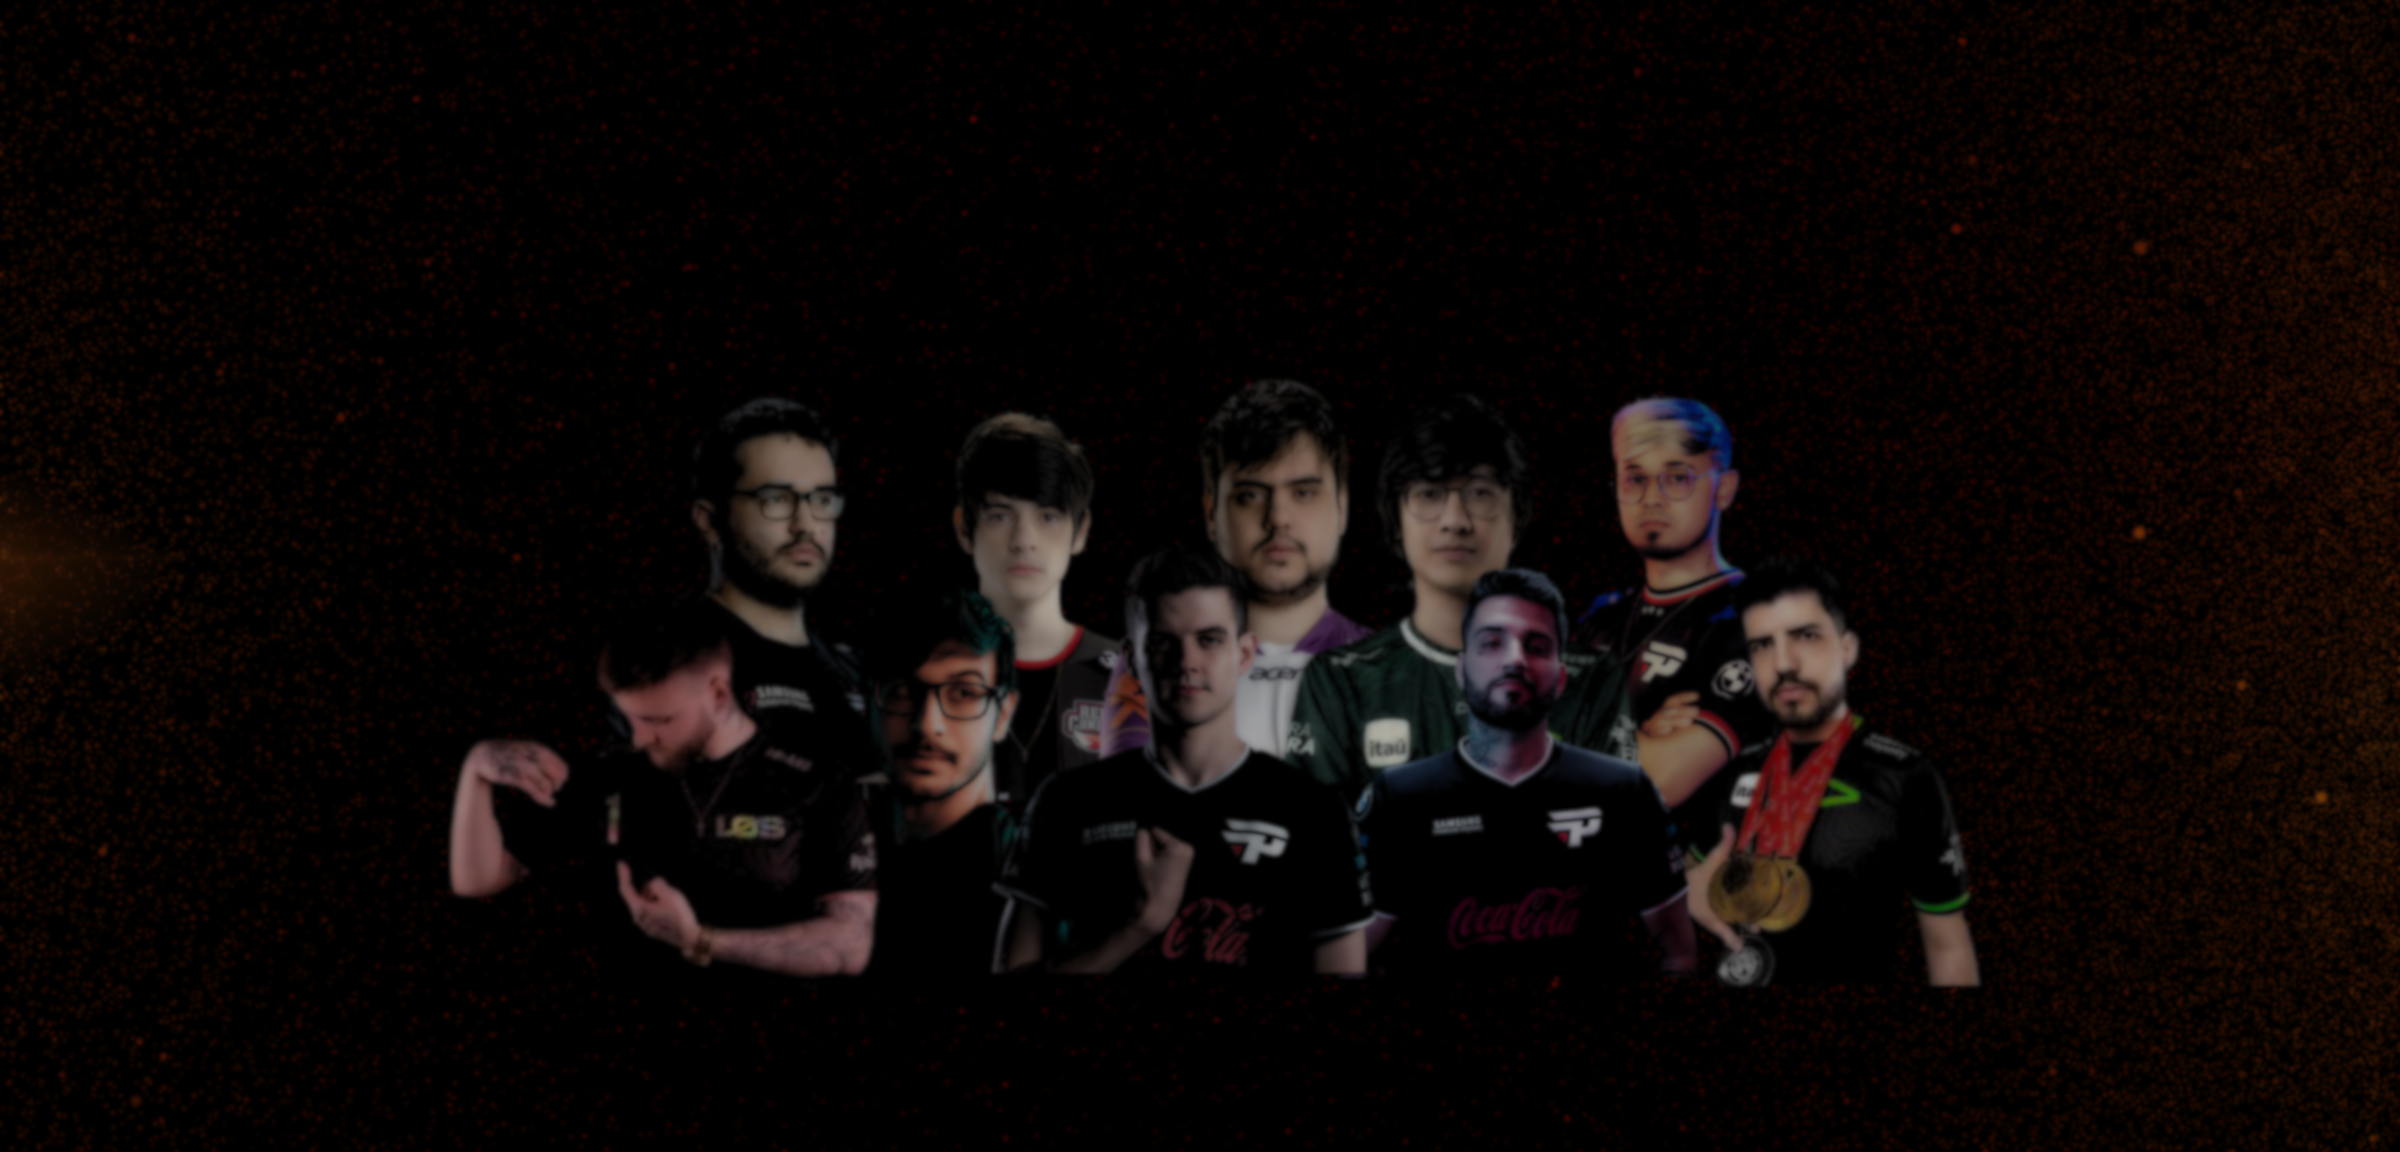
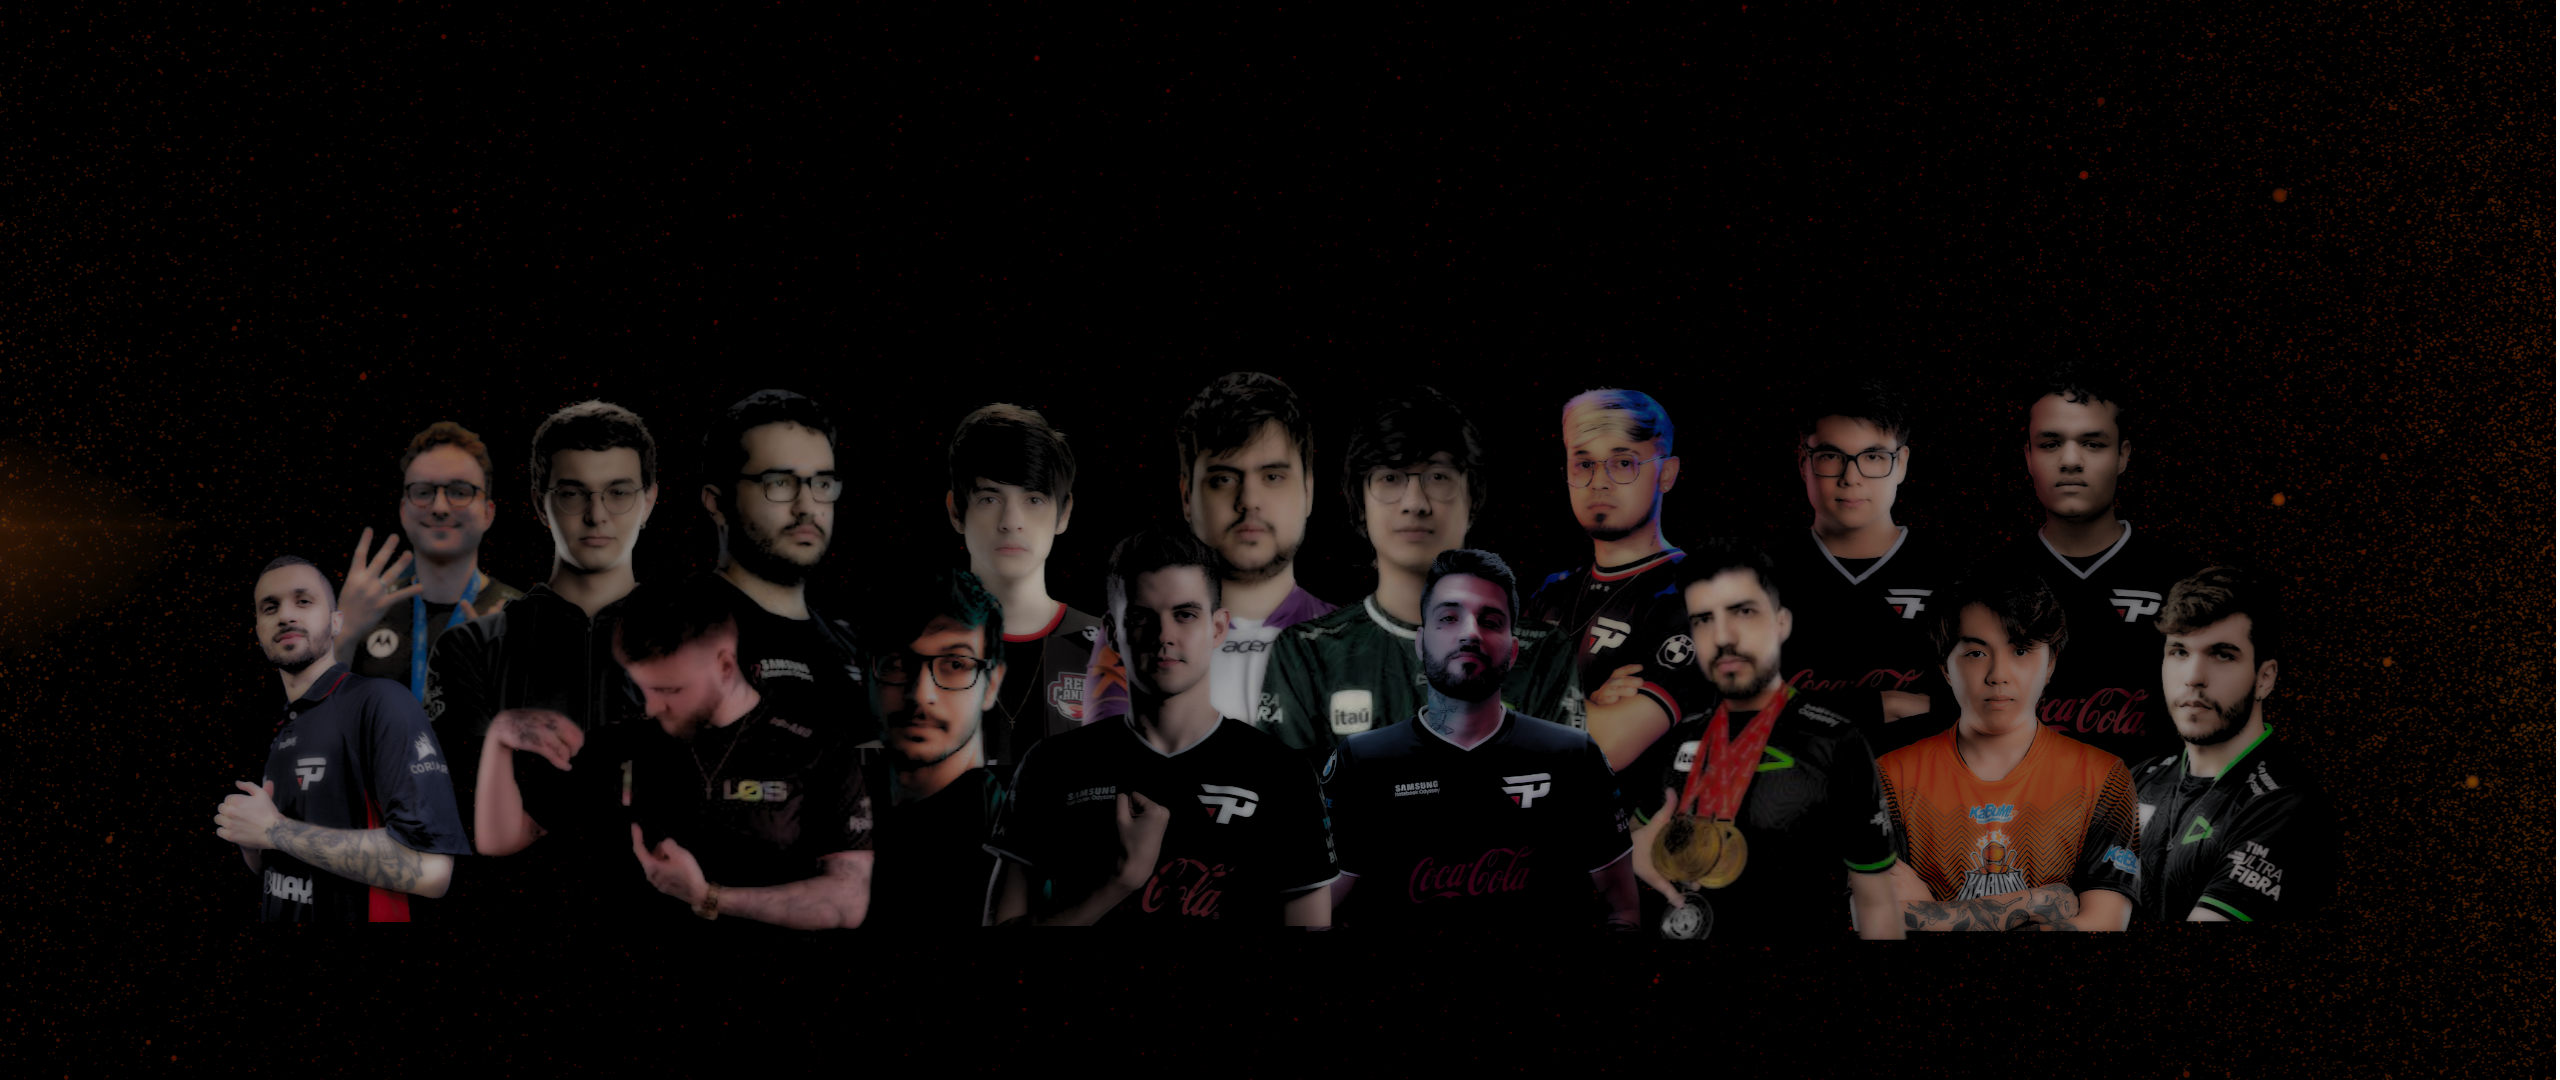
melhora responsividade

Changed region(s): [[0.0625, 0.0, 1.0, 1.0], [0.875, 0.9472, 0.9062, 0.9778], [0.0, 0.6111, 0.0312, 0.6417]]

diff --git a/src/Components/layout/BlocoLineup.module.css b/src/Components/layout/BlocoLineup.module.css
@@ -15,7 +15,7 @@
     flex-wrap: wrap;
     align-items: center;
     justify-content: center;
-    width: 60%;
+    width: 100%;
     margin: 0 auto;
     border-radius: 2px;
     margin-top: 0.45em;
@@ -75,29 +75,30 @@
   background-color: #e35454;
 }
 
-.containerBloco{
-    display: flex;
-    align-items: center;
-    justify-content: center;
-    flex-wrap: wrap;
-    width: 100%;
-    
-}
+
 
 
 
 @media (max-width:450px){
     .bloco{
         width: 100%;
-        padding: 0px;
-        margin: 0;
-        padding: 1em;
+        
         margin-bottom: 1em;
     }
     .correct{
         width: 100%;
     }
-    .containerBloco{
+    .containerRes{
         width: 100%;
+        text-align: center;
+    }
+    .containerRole{
+        display: flex;
+        width: 100%;
+        flex-wrap: wrap;
+    }
+    .role{
+        margin:  1em 0;
+        
     }
 }

diff --git a/src/Components/layout/MenuModos.module.css b/src/Components/layout/MenuModos.module.css
@@ -74,13 +74,32 @@
             padding: 1em;
             margin-bottom: 1em;
         }
-       
+        .menu{
+            max-width: 100%;
+        }
+        .containerMenu{
+            max-width: 100%;
+        }
+         
+        
+        .social_list {
+            display: flex ;
+            
+        }
+         .social_list li{
+            margin: 0 0.5em;
+            z-index: 1;
+        }
+        .social_list img{
+            width: 40px;
+        }
         .containerBloco{
             width: 100%;
         }
+        
         .ropeBackGround{
            
-            background-size: 78.5% 13px;
+            background-size: 100% 13px;
             
         }
     }

diff --git a/src/Components/layout/DonationSection.module.css b/src/Components/layout/DonationSection.module.css
@@ -91,3 +91,20 @@
     
     border: 2px solid white;
 }
+@media (max-width:450px) {
+    
+    .descriptionSection{
+        width: 100%;
+    }
+     .donationSection p{
+         font-size: 1rem;
+     }
+     .DonationInfo{
+         flex-direction: column;
+     }
+     .btn {
+        padding: 0.8em 2em;
+        font-size: 1rem;
+    }
+   
+}  

diff --git a/src/Components/pages/DateGame.module.css b/src/Components/pages/DateGame.module.css
@@ -33,5 +33,18 @@
     width: 100%;
     
 }
+@media (max-width:450px) {
+    .home{
+        width: 100%;
+    }
+    .logo{
+        max-width: 98%;
+    }
+    .home form{
+        height: 20%;
+        margin: auto 0;
+        margin-bottom: 5em;
+    }
+}
     
   

diff --git a/src/Components/pages/Lineup.module.css b/src/Components/pages/Lineup.module.css
@@ -33,5 +33,18 @@
     width: 100%;
     
 }
+@media (max-width:450px) {
+    .home{
+        width: 100%;
+    }
+    .logo{
+        max-width: 98%;
+    }
+    .home form{
+        width: 100%;
+        margin: auto 0;
+       
+    }
+}
     
   

diff --git a/src/Components/pages/Donation.module.css b/src/Components/pages/Donation.module.css
@@ -15,3 +15,11 @@
  padding: 0px 80px 0px 80px;
  margin: 2% auto;
 }
+@media (max-width:450px) {
+    .home{
+        width: 100%;
+    }
+    .logo{
+        max-width: 98%;
+    }
+}   

diff --git a/src/Components/pages/Silhouette.module.css b/src/Components/pages/Silhouette.module.css
@@ -47,10 +47,7 @@ html {
         padding: 0px;
         border-radius: 30px;
     }
-    .home img{
-        width: 100%;
-        
-    }
+   
     .form{
         width: 100%;
         

diff --git a/src/Components/layout/Bloco.module.css b/src/Components/layout/Bloco.module.css
@@ -125,4 +125,7 @@ margin-bottom: 2%;
     .containerBloco{
         width: 100%;
     }
+    .RedirectContainer a img{
+        width: 100px;
+    }
 }

diff --git a/src/Components/layout/Carousel.module.css b/src/Components/layout/Carousel.module.css
@@ -75,3 +75,8 @@
 .active {
   background: #333;
 }
+@media (max-width:450px) {
+    .carousel{
+        display: none;
+    }
+}
